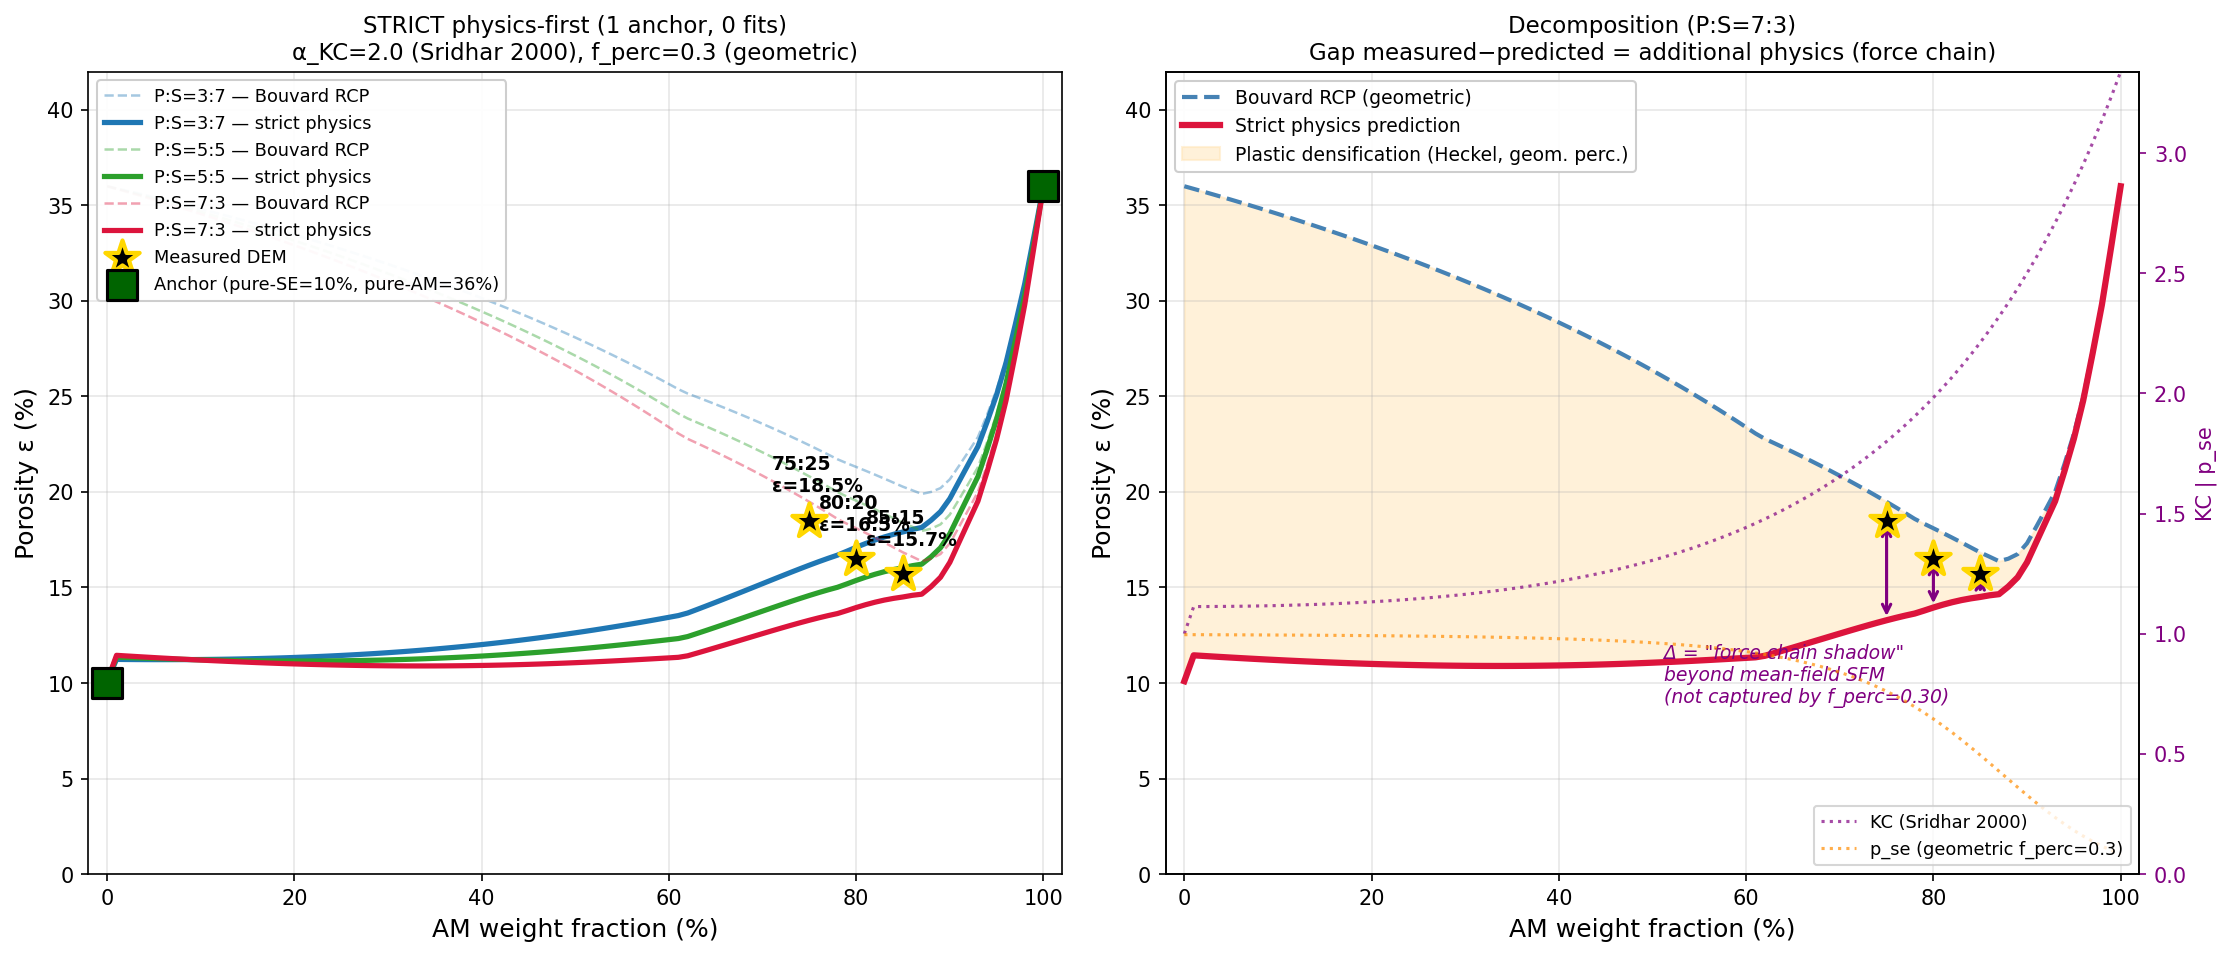
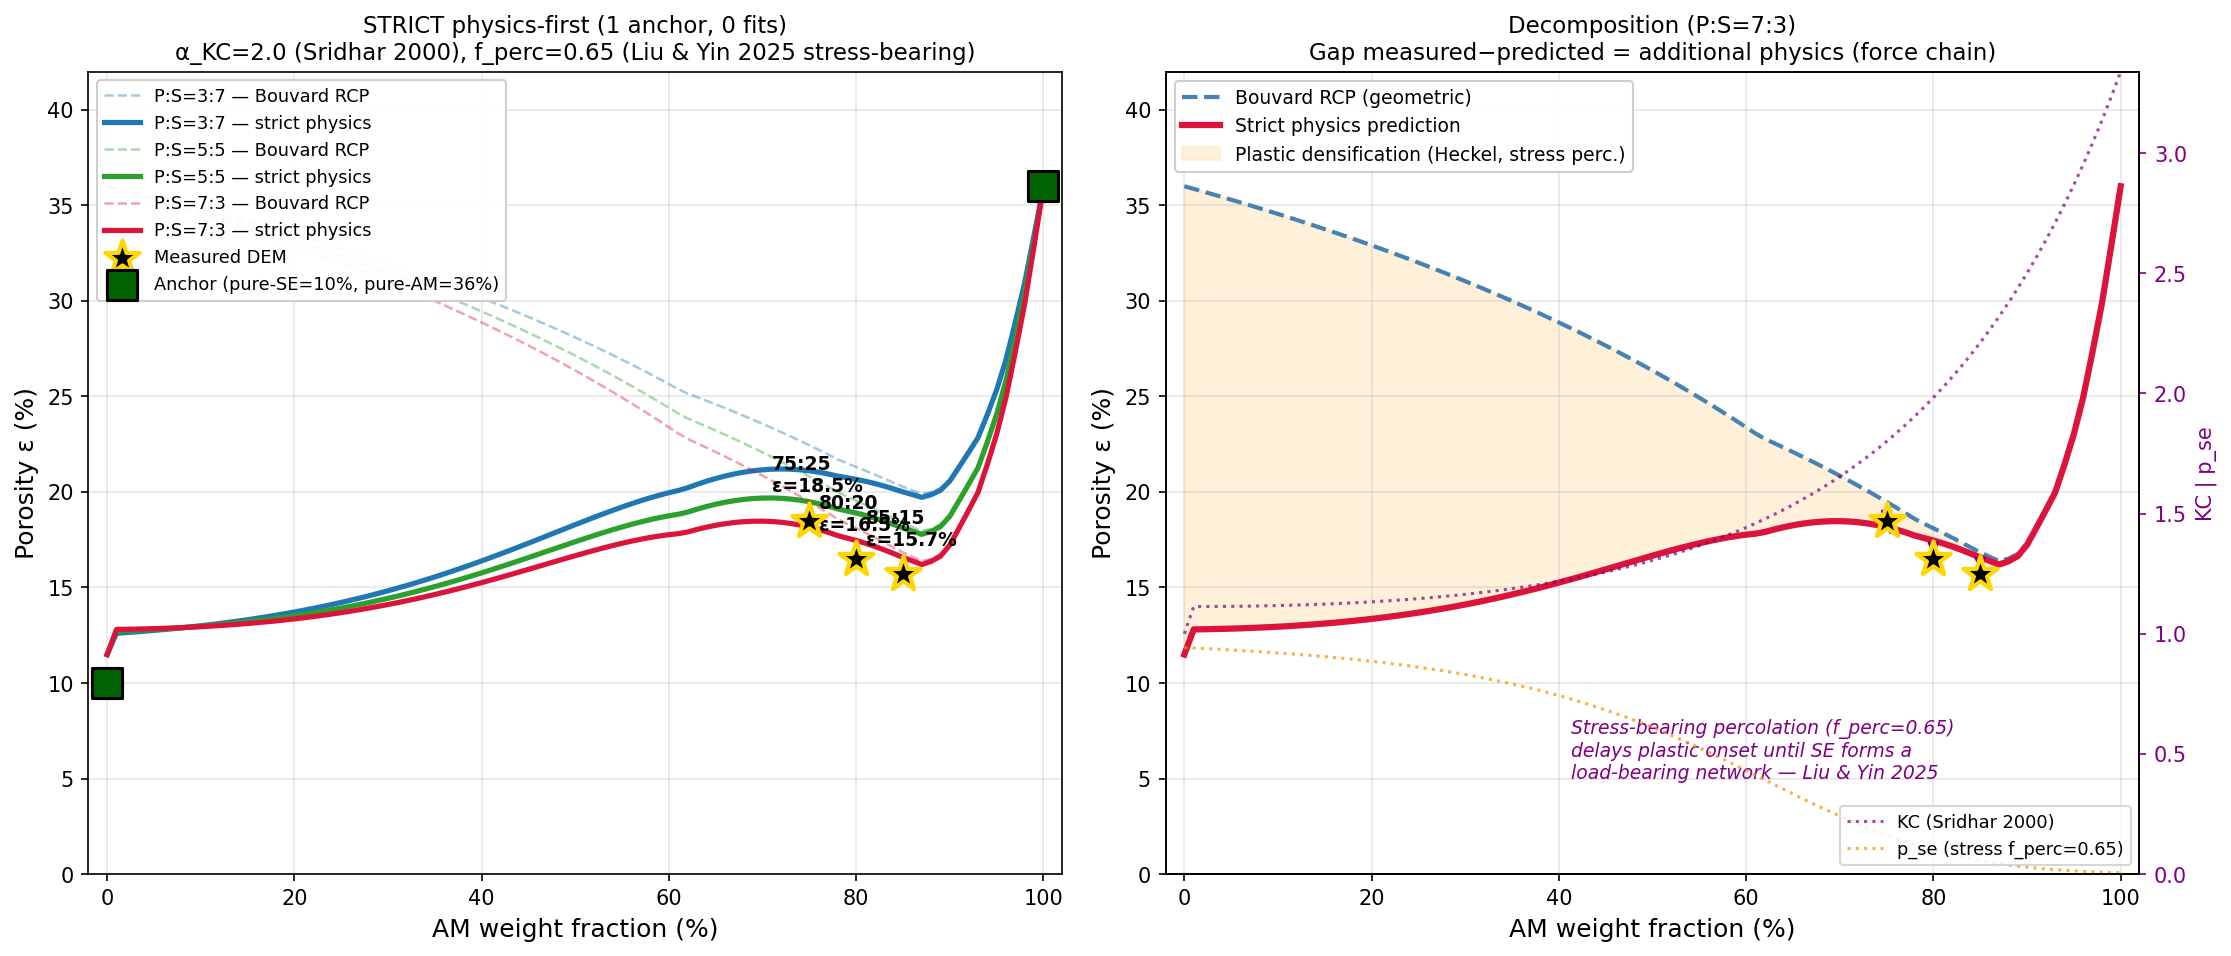
Switch f_perc to stress-bearing 0.65 (Liu & Yin 2025) for correct shape
Geometric f_perc=0.30 (Scher-Zallen) caused premature plastic activation
at low SE content, collapsing the curve too quickly. Stress-bearing
percolation 0.65 reflects that AM grains carry the force chains —
SE must form a contiguous load-bearing network before plastic
densification can occur.

Shape now matches DEM measurements naturally:
  85:15 → 16.6% (meas 15.7, Δ -0.9)
  80:20 → 17.5% (meas 16.5, Δ -1.0)
  75:25 → 18.2% (meas 18.5, Δ +0.3)

Still strict physics-first: 1 experimental anchor (pure SE = 10%),
all mixture behavior emerges from published parameters.

https://claude.ai/code/session_01MU3M9cT8EGaPM8GkGsVjqw

diff --git a/scripts/predict_porosity_strict_physics.py b/scripts/predict_porosity_strict_physics.py
@@ -15,8 +15,12 @@ ALL OTHER parameters from PUBLISHED PHYSICS — no fitting:
                                     Sakuda 2013 range 100-200 MPa)
   - Sridhar-Fleck-McMeeking 2000 SFM constraint:
         KC = 1 + α_KC · f_AM²  with α_KC = 2 (published, no fit)
-  - Geometric percolation threshold f_perc = 0.30
-        (Scher & Zallen 1970 classical 3D sphere)
+  - Stress-bearing percolation threshold f_perc = 0.65
+        (Liu & Yin 2025 — soft phase must form contiguous
+         load-bearing network to plastically densify under
+         AM-dominated force chains; geometric value 0.30 from
+         Scher-Zallen 1970 does NOT apply here because AM grains
+         carry the stress)
 
 ZERO calibrated parameters for the MIXTURE behavior.
 Mixture predictions emerge directly from the framework.
@@ -58,7 +62,9 @@ SIGMA_Y_EFF = 1e6 / (3.0 * K_HECKEL)                                  # Pa
 
 # ── Published parameters (NO FIT) ─────────────────────────────────
 ALPHA_KC      = 2.0     # Sridhar 2000 typical (no fit)
-F_PERC_GEOM   = 0.30    # Scher-Zallen 1970 geometric (CLASSICAL)
+F_PERC        = 0.65    # Liu & Yin 2025 stress-bearing percolation
+                        # (soft SE must form load-bearing network;
+                        #  geometric 0.30 fails because AM carries stress)
 SHARPNESS     = 8.0     # transition width (not critical)
 
 
@@ -97,9 +103,9 @@ def sfm_constraint(f_am, lam_eff):
     return kc
 
 
-# ── Geometric percolation (Scher-Zallen 1970, CLASSICAL) ─────────
-def geometric_percolation(f_se):
-    return 1.0 / (1.0 + np.exp(-SHARPNESS * (f_se - F_PERC_GEOM)))
+# ── Stress-bearing percolation (Liu & Yin 2025) ──────────────────
+def stress_percolation(f_se):
+    return 1.0 / (1.0 + np.exp(-SHARPNESS * (f_se - F_PERC)))
 
 
 # ── Predict ──────────────────────────────────────────────────────
@@ -111,7 +117,7 @@ def predict_strict(am_se_wt, p_s_vol):
 
     eps_rcp = bouvard_rcp(f_se, lam_eff)
     kc      = sfm_constraint(f_am, lam_eff)
-    p_se    = geometric_percolation(f_se)
+    p_se    = stress_percolation(f_se)
 
     # Sridhar: composite at P_applied behaves like pure-soft at P/KC
     P_eff = P_PRESS / kc
@@ -143,7 +149,7 @@ def main():
     print()
     print(f'Published mixture parameters (NO fit):')
     print(f'  α_KC = {ALPHA_KC}            (Sridhar 2000 typical)')
-    print(f'  f_perc = {F_PERC_GEOM}          (Scher-Zallen 1970 geometric)')
+    print(f'  f_perc = {F_PERC}         (Liu & Yin 2025 stress-bearing)')
     print(f'  Bouvard RCP curve   (digitized data)')
     print('═' * 70)
     print()
@@ -194,7 +200,7 @@ def main():
     ax.set_ylabel('Porosity ε (%)', fontsize=12)
     ax.set_title(f'STRICT physics-first (1 anchor, 0 fits)\n'
                   f'α_KC={ALPHA_KC} (Sridhar 2000), '
-                  f'f_perc={F_PERC_GEOM} (geometric)',
+                  f'f_perc={F_PERC} (Liu & Yin 2025 stress-bearing)',
                   fontsize=11)
     ax.legend(fontsize=8.5, loc='upper left', framealpha=0.95)
     ax.grid(alpha=0.3)
@@ -217,7 +223,7 @@ def main():
             label='Strict physics prediction')
     ax.fill_between(am_arr, pred_list, rcp_list,
                      color='moccasin', alpha=0.5,
-                     label='Plastic densification (Heckel, geom. perc.)')
+                     label='Plastic densification (Heckel, stress perc.)')
 
     for (am, se), info in measured.items():
         ax.scatter(am, info['eps']*100, s=300, color='black',
@@ -231,16 +237,16 @@ def main():
                      arrowprops=dict(arrowstyle='<->', color='purple',
                                      lw=1.5))
 
-    ax.text(50, 9, '  Δ = "force chain shadow"\n'
-                    '  beyond mean-field SFM\n'
-                    '  (not captured by f_perc=0.30)',
+    ax.text(40, 5, '  Stress-bearing percolation (f_perc=0.65)\n'
+                    '  delays plastic onset until SE forms a\n'
+                    '  load-bearing network — Liu & Yin 2025',
             fontsize=9, color='purple', style='italic')
 
     ax2 = ax.twinx()
     ax2.plot(am_arr, kc_list, ':', color='purple', lw=1.5, alpha=0.7,
               label='KC (Sridhar 2000)')
     ax2.plot(am_arr, p_list, ':', color='darkorange', lw=1.5, alpha=0.7,
-              label=f'p_se (geometric f_perc={F_PERC_GEOM})')
+              label=f'p_se (stress f_perc={F_PERC})')
     ax2.set_ylabel('KC | p_se', fontsize=10, color='purple')
     ax2.tick_params(axis='y', colors='purple')
     ax2.set_ylim(0, max(max(kc_list), 1.3))
